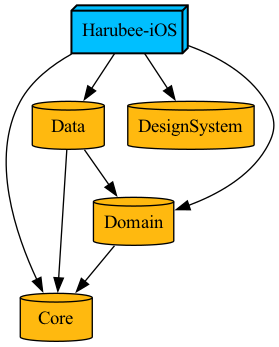
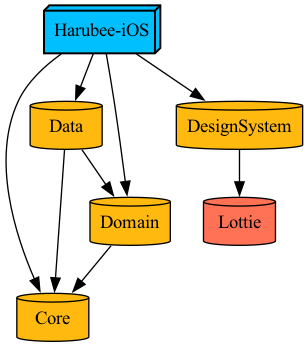
Chore/#94: Lottie 모듈화

diff --git a/Harubee-iOS/Sources/App/ContentView.swift b/Harubee-iOS/Sources/App/ContentView.swift
@@ -8,24 +8,14 @@
 
 import SwiftUI
 import DesignSystem
-import Lottie
 
-public struct ContentView: View {
-  @State private var isPresented: Bool = false
-  
-  public init() {}
-  
-  public var body: some View {
-    VStack {
-      Button {
-        isPresented = true
-      } label: {
-        Text("Hello, World")
-      }
-    }
-    .sheet(isPresented: $isPresented) {
-      HarubeeAdjustView()
-        .presentationDetents([.fraction(0.8)])
+struct ContentView: View {
+  var body: some View {
+    ZStack {
+      Color.main
+        .ignoresSafeArea()
+      
+      HarubeeLottie()
     }
   }
 }

diff --git a/Project.swift b/Project.swift
@@ -40,8 +40,7 @@ let project = Project(
         .target(name: "Domain"),
         .target(name: "DesignSystem"),
         .target(name: "Data"),
-        .target(name: "Core"),
-        .external(name: "Lottie")
+        .target(name: "Core")
       ]
     ),
     
@@ -65,7 +64,9 @@ let project = Project(
         infoPlist: .default,
         sources: ["DesignSystem/Sources/**"],
         resources: ["DesignSystem/Resources/**"],
-        dependencies: []
+        dependencies: [
+          .external(name: "Lottie")
+        ]
       ),
     
       .target(

diff --git a/DesignSystem/Sources/Lotties/HarubeeLottie.swift b/DesignSystem/Sources/Lotties/HarubeeLottie.swift
@@ -1,0 +1,22 @@
+//
+//  HarubeeLottie.swift
+//  Core
+//
+//  Created by namdghyun on 11/2/24.
+//  Copyright © 2024 namudiEtc. All rights reserved.
+//
+
+import SwiftUI
+import Lottie
+
+public struct HarubeeLottie: View {
+  public init() {}
+  
+  public var body: some View {
+    LottieView(animation: .named(
+      "harugayongbiyong-lottie",
+      bundle: Bundle.module
+    ))
+    .playing()
+  }
+}

diff --git a/Harubee-iOS/Sources/App/HarubeeIOSApp.swift b/Harubee-iOS/Sources/App/HarubeeIOSApp.swift
@@ -29,9 +29,7 @@ struct HarubeeIOSApp: App {
   
   var body: some Scene {
     WindowGroup {
-      NavigationStack {
-        CalendarView(viewModel: DIContainer.shared.makeCalendarViewModel())
-      }
+      ContentView()
     }
   }
 }
